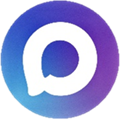
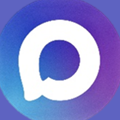
Увеличить иконки соцсетей до размера кнопок
- .social-btn img растянут на всю внутреннюю область кнопки
  (100% x 100%, object-fit: cover, border-radius: 50%)
- Иконки пересобраны так, чтобы диск был непрозрачен до самого края:
  источник залит цветом обода и обрезан по полностью непрозрачному
  радиусу, иначе сквозь полупрозрачную кайму просвечивал фон кнопки
  (у ВК кайма давала 18,5% грязного кольца)
- Вокруг иконки остаётся только рамка кнопки 2px, как у эмблем проектов
- Палитра кнопок не изменена

diff --git a/index.html b/index.html
@@ -141,9 +141,10 @@
         }
 
         .social-btn img {
-            width: 24px;
-            height: 24px;
-            object-fit: contain;
+            width: 100%;
+            height: 100%;
+            object-fit: cover;
+            border-radius: 50%;
         }
 
         .social-btn.disabled {
